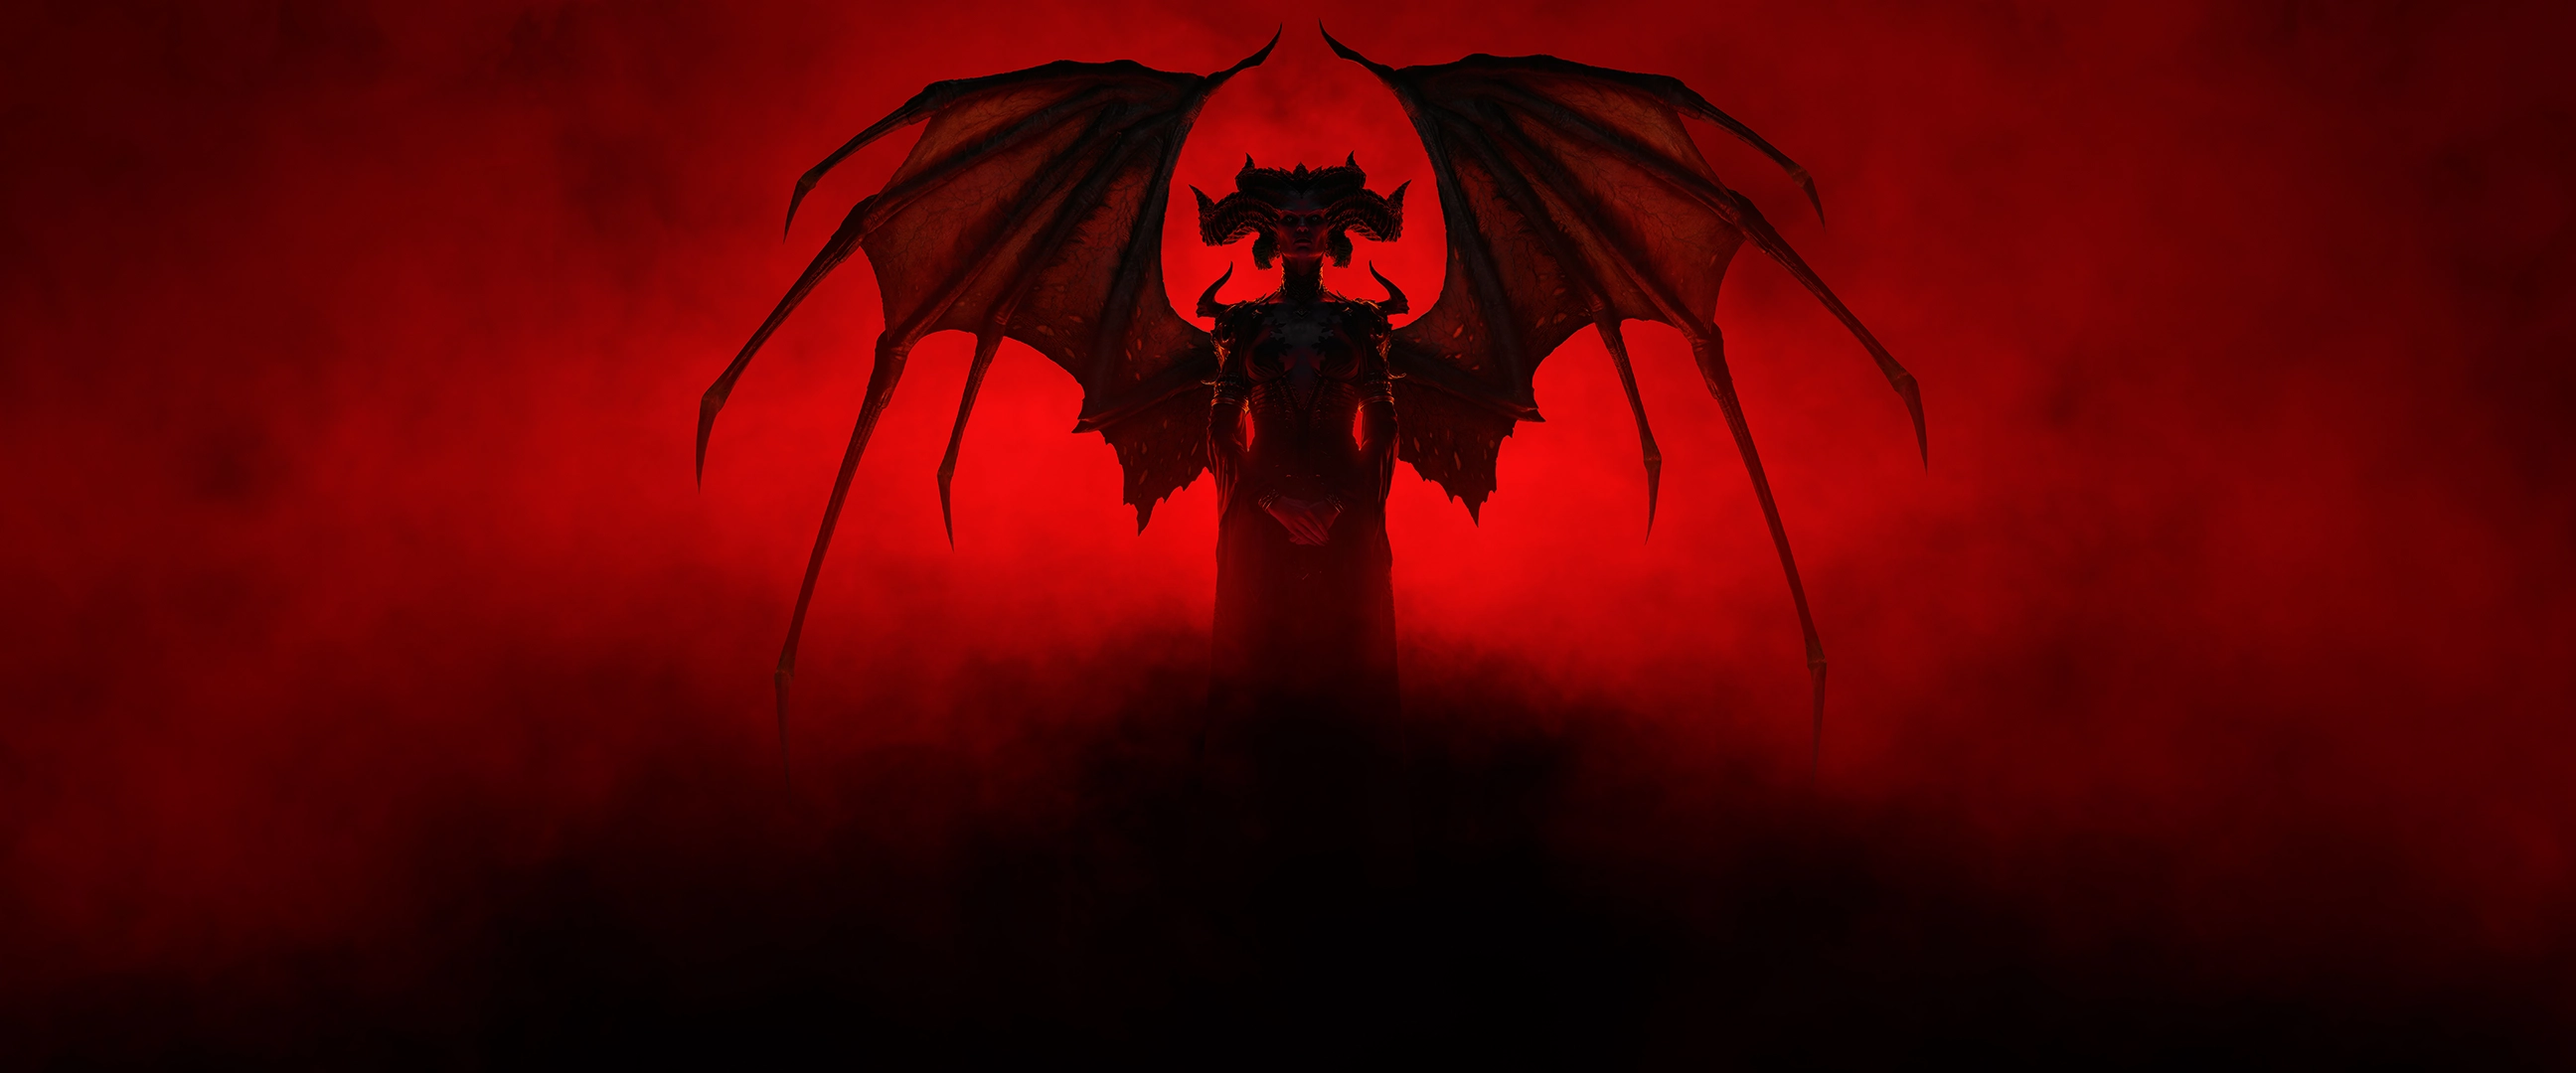
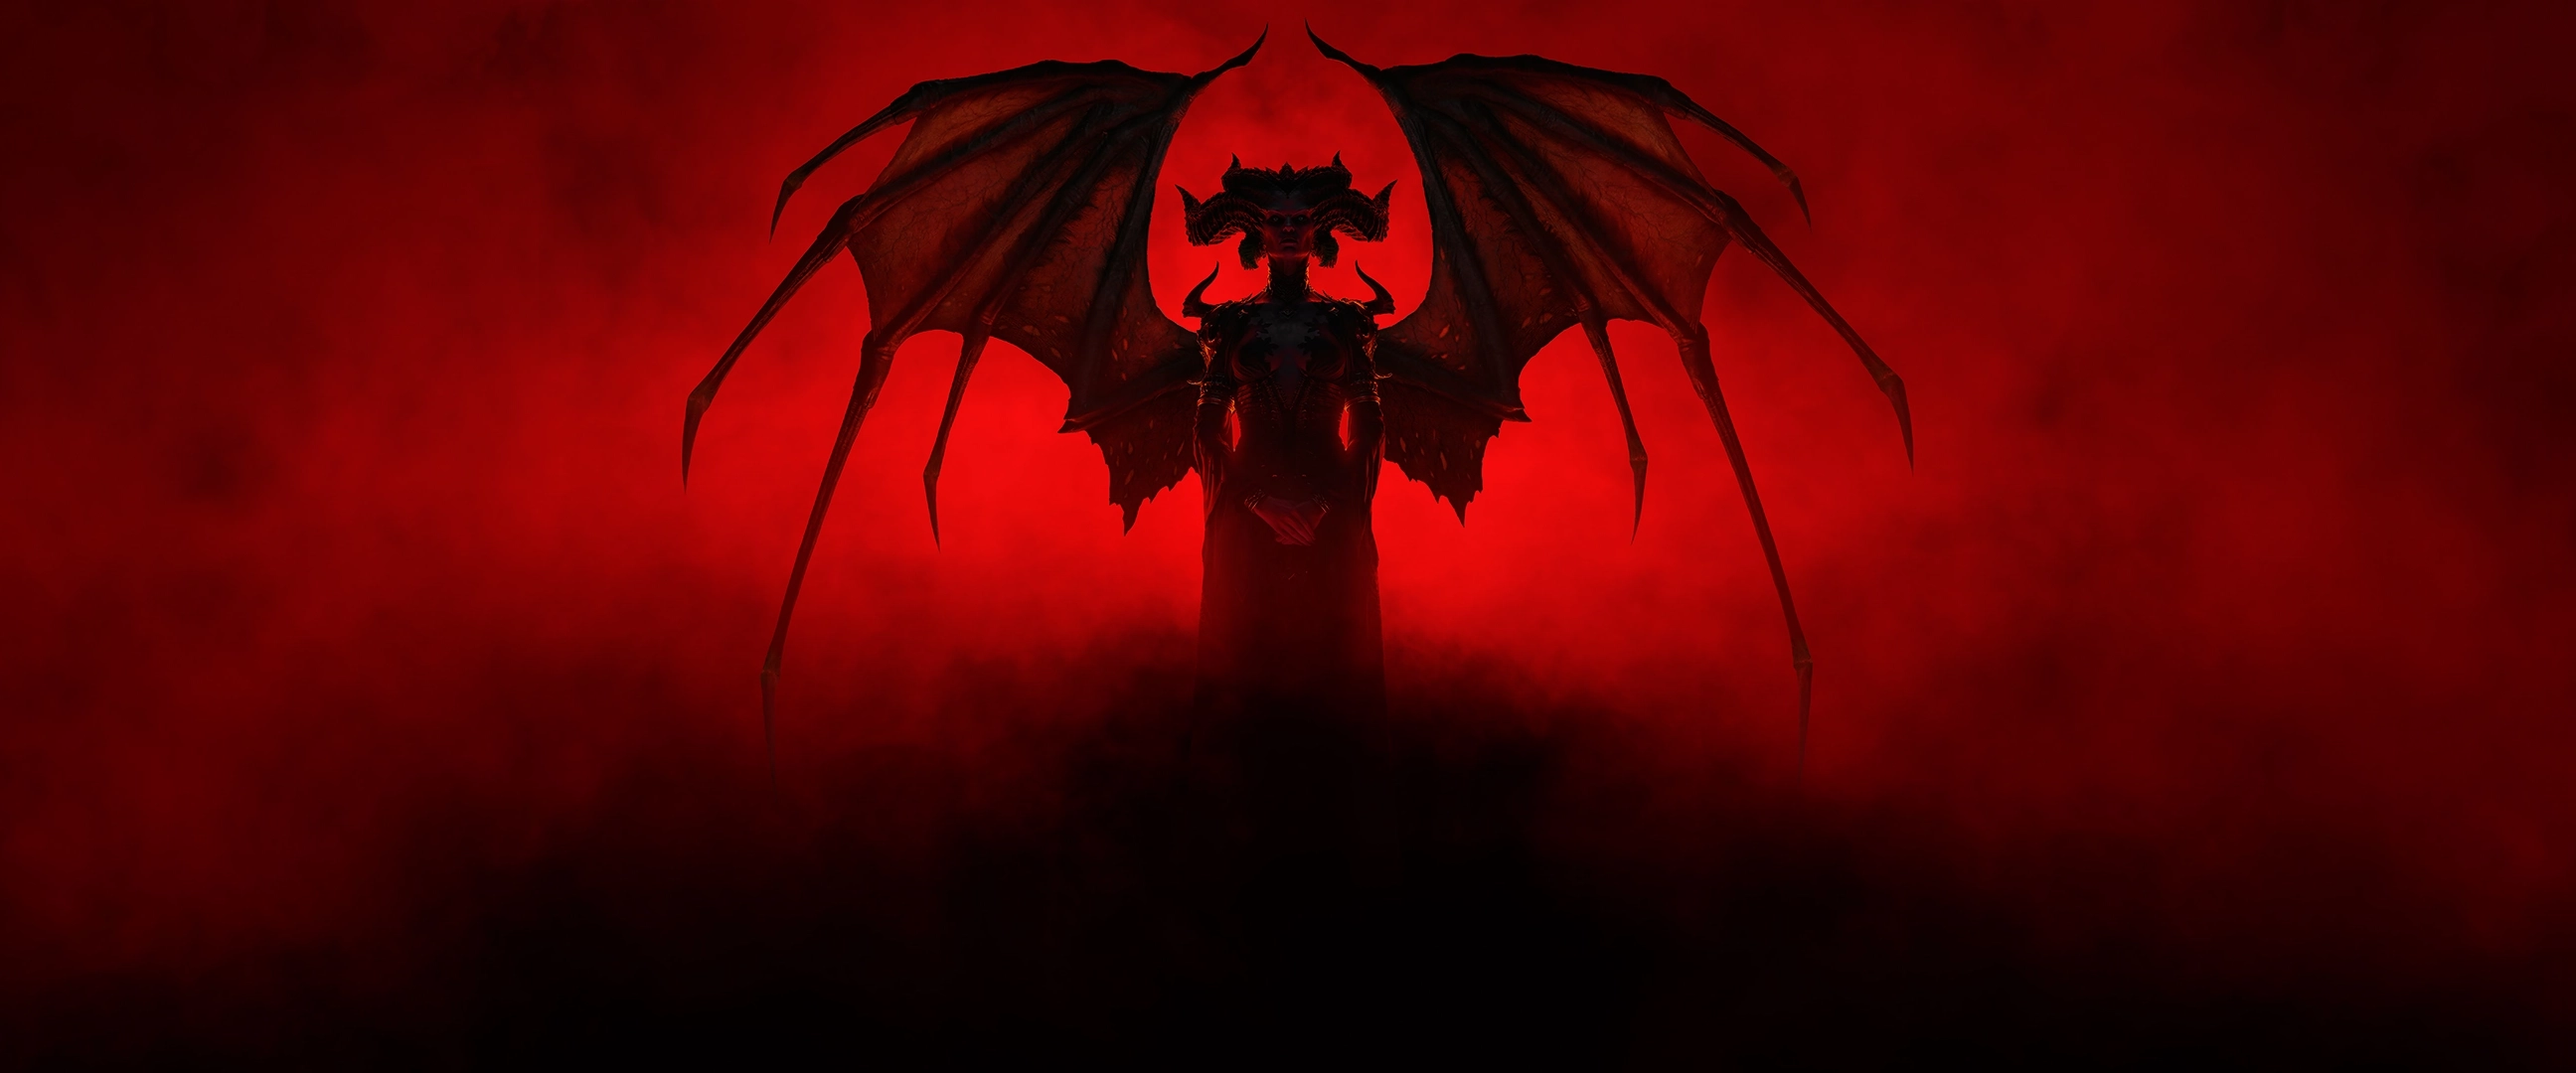
implemented several responsive functionality, redesigned the class selection menu positions to look more like in the game

Changed region(s): [[0.25, 0.0306, 0.7188, 0.6722], [0.7188, 0.3056, 0.75, 0.4278], [0.5625, 0.0306, 0.5938, 0.0611]]

diff --git a/src/components/class-menu/class-menu.styles.scss b/src/components/class-menu/class-menu.styles.scss
@@ -4,20 +4,28 @@
 }
 
 .content {
-  position: absolute;
-  top: 50%;
+  // position: absolute;
+  // top: 50%;
   left: 0;
   z-index: 1;
   width: 100%;
+  height: 100%;
 }
 
 .menu {
   display: flex;
-  flex-direction: column;
+  // flex-direction: column;
   list-style: none;
   width: 100%;
-  margin: 0 auto;
+  height: 100%;
+  // margin: 0 auto;
   padding: 1.5rem;
+
+  justify-content: center;
+  align-items: flex-end;
+  // position: absolute;
+  // bottom: 10%;
+  // left: 50%;
 
   & * {
     -webkit-user-select: none; /* Chrome all / Safari all */
@@ -27,22 +35,74 @@
   }
 }
 
-@media (max-width: 960px) {
-  .content {
-    top: 30%;
-  }
-  .menu {
-    width: 100%;
-    justify-content: center;
-    align-items: center;
-  }
-}
+// @media (max-width: 960px) {
+//   .content {
+//     top: 30%;
+//   }
+//   .menu {
+//     width: 100%;
+//     justify-content: center;
+//     align-items: center;
+//   }
+// }
 
 .menu li {
-  width: 50%;
+  width: 15%;
   max-width: 20rem;
-  margin: 0 auto;
+  // margin: 0 auto;
   margin-bottom: 0.2rem;
+
+  // position: absolute;
+}
+
+.menu li:nth-child(1) {
+  transform: rotate(-50deg) translateY(-100px) rotate(50deg); // Add this
+}
+
+.menu li:nth-child(2) {
+  transform: rotate(-20deg) translateY(-180px) rotate(20deg); // Add this
+}
+
+.menu li:nth-child(3) {
+  transform: translateY(-200px); // Add this
+}
+
+.menu li:nth-child(4) {
+  transform: rotate(20deg) translateY(-180px) rotate(-20deg); // Add this
+}
+
+.menu li:nth-child(5) {
+  transform: rotate(50deg) translateY(-100px) rotate(-50deg); // Add this
+}
+
+@media (max-width: 1740px) {
+  .menu li {
+    width: 15%;
+    max-width: 17rem;
+  }
+
+  .menu-item {
+    font-size: 1rem !important;
+  }
+  .menu li:nth-child(1) {
+    transform: rotate(-10deg) translateY(-100px) rotate(10deg); // Add this
+  }
+
+  .menu li:nth-child(2) {
+    transform: rotate(-10deg) translateY(-200px) rotate(10deg); // Add this
+  }
+
+  .menu li:nth-child(3) {
+    transform: translateY(-200px); // Add this
+  }
+
+  .menu li:nth-child(4) {
+    transform: rotate(10deg) translateY(-200px) rotate(-10deg); // Add this
+  }
+
+  .menu li:nth-child(5) {
+    transform: rotate(10deg) translateY(-100px) rotate(-10deg); // Add this
+  }
 }
 
 @media (max-width: 960px) {

diff --git a/src/components/search-help/search-help.component.jsx b/src/components/search-help/search-help.component.jsx
@@ -64,8 +64,7 @@ const SearchHelpComponent = () => {
                   <strong>Allocated Points</strong>
                   <br></br>
                   Use <strong>p:</strong> followed by a number to search for
-                  nodes with a specific number of allocated points.<br></br>
-                  Example: p:3
+                  nodes with a specific number of allocated points. Example: p:3
                 </span>
               </li>
               <li>
@@ -73,8 +72,7 @@ const SearchHelpComponent = () => {
                   <strong>Skill Name</strong>
                   <br></br>
                   Use <strong>n:</strong> followed by the skill name to search
-                  only within skill names.<br></br>
-                  Example: n:Frenzy
+                  only within skill names. Example: n:Frenzy
                 </span>
               </li>
               <li>
@@ -82,8 +80,7 @@ const SearchHelpComponent = () => {
                   <strong>Tags </strong>
                   <br></br>
                   Use <strong>t:</strong> followed by a tag name to search only
-                  within tags.<br></br>
-                  Example: t:Chill
+                  within tags. Example: t:Chill
                 </span>
               </li>
               <li>
@@ -91,8 +88,7 @@ const SearchHelpComponent = () => {
                   <strong>Max Points</strong>
                   <br></br>
                   Use <strong>mp:</strong> followed by a number to search for
-                  nodes with a specific max points value.<br></br>
-                  Example: mp:5
+                  nodes with a specific max points value. Example: mp:5
                 </span>
               </li>
               <li>
@@ -100,8 +96,7 @@ const SearchHelpComponent = () => {
                   <strong>Node Type</strong>
                   <br></br>
                   Use <strong>nt:</strong> followed by the node type to search
-                  for specific node types. <br></br>
-                  Example: nt:activeSkill
+                  for specific node types. Example: nt:activeSkill
                 </span>
               </li>
               <li>

diff --git a/src/components/index-page/index-page.styles.scss b/src/components/index-page/index-page.styles.scss
@@ -2,7 +2,7 @@
   height: 100dvh;
   //   background-image: url("../../assets/lilith-light-bg-small.webp"); /* Lighted*/
   background-image: url("../../assets/backgrounds/lilith-silhouette-bg-small.webp"); /* Silhouette*/
-  background-position: 52% 0%;
+  background-position: center;
   background-size: cover;
 }
 
@@ -12,6 +12,10 @@
   left: 0;
   z-index: 1;
   width: 100%;
+  height: 100%;
+  display: flex;
+  justify-content: center;
+  align-items: flex-end;
   & * {
     -webkit-user-select: none; /* Chrome all / Safari all */
     -moz-user-select: none; /* Firefox all */
@@ -34,8 +38,7 @@
   filter: drop-shadow(rgba(0, 0, 0, 0.8) 0px 3px 3px);
   padding-bottom: 2rem;
   z-index: 0;
-  margin: 5% auto;
-  // width: 50%;
+  margin-bottom: 5rem;
   width: 498px;
   height: 675px;
   display: flex;
@@ -104,5 +107,8 @@
   }
 }
 
-.index-footer {
+@media screen and (min-width: 1981px) {
+  .menu-container {
+    // margin: 5% auto;
+  }
 }

diff --git a/src/components/skill-tooltip/skill-tooltip.styles.scss b/src/components/skill-tooltip/skill-tooltip.styles.scss
@@ -138,10 +138,13 @@
   text-shadow: 1px 1px 3px #000000, -1px -1px 3px #380505;
 
   & h1 {
-    margin-bottom: 0.5rem;
+    margin-bottom: 0.1rem;
   }
 }
 
+.separator {
+  margin-top: -10px;
+}
 .separator img {
   width: 100%;
   filter: drop-shadow(1px 0px 1px #000000);
@@ -235,7 +238,7 @@
 .enchantment-title {
   font-family: "OldFenris", sans-serif !important;
   text-align: center !important;
-  line-height: 3rem !important;
+  line-height: 2rem !important;
   word-spacing: 4px;
   text-transform: uppercase;
   color: #f3e9d9 !important;
@@ -253,8 +256,8 @@
   text-align: left;
   font-family: "Roboto", sans-serif;
   color: #c2702e;
-  margin-top: 0.6rem;
-  margin-bottom: 0.3rem;
+  margin-top: 0.3rem;
+  margin-bottom: 0.1rem;
 }
 
 .image-container {

diff --git a/src/components/class-menu/class-menu.component.jsx b/src/components/class-menu/class-menu.component.jsx
@@ -19,7 +19,7 @@ const ClassMenu = () => {
   return (
     <div className="class-container">
       <div className="content">
-        <div className="menu-title"></div>
+        {/* <div className="menu-title"></div> */}
         <ul className="menu">
           <li>
             <Link

diff --git a/src/components/footer/index-footer.styles.scss b/src/components/footer/index-footer.styles.scss
@@ -4,6 +4,7 @@
   height: 40px;
   width: 100%;
   background: none;
+  box-shadow: none;
 
   z-index: 1;
 
